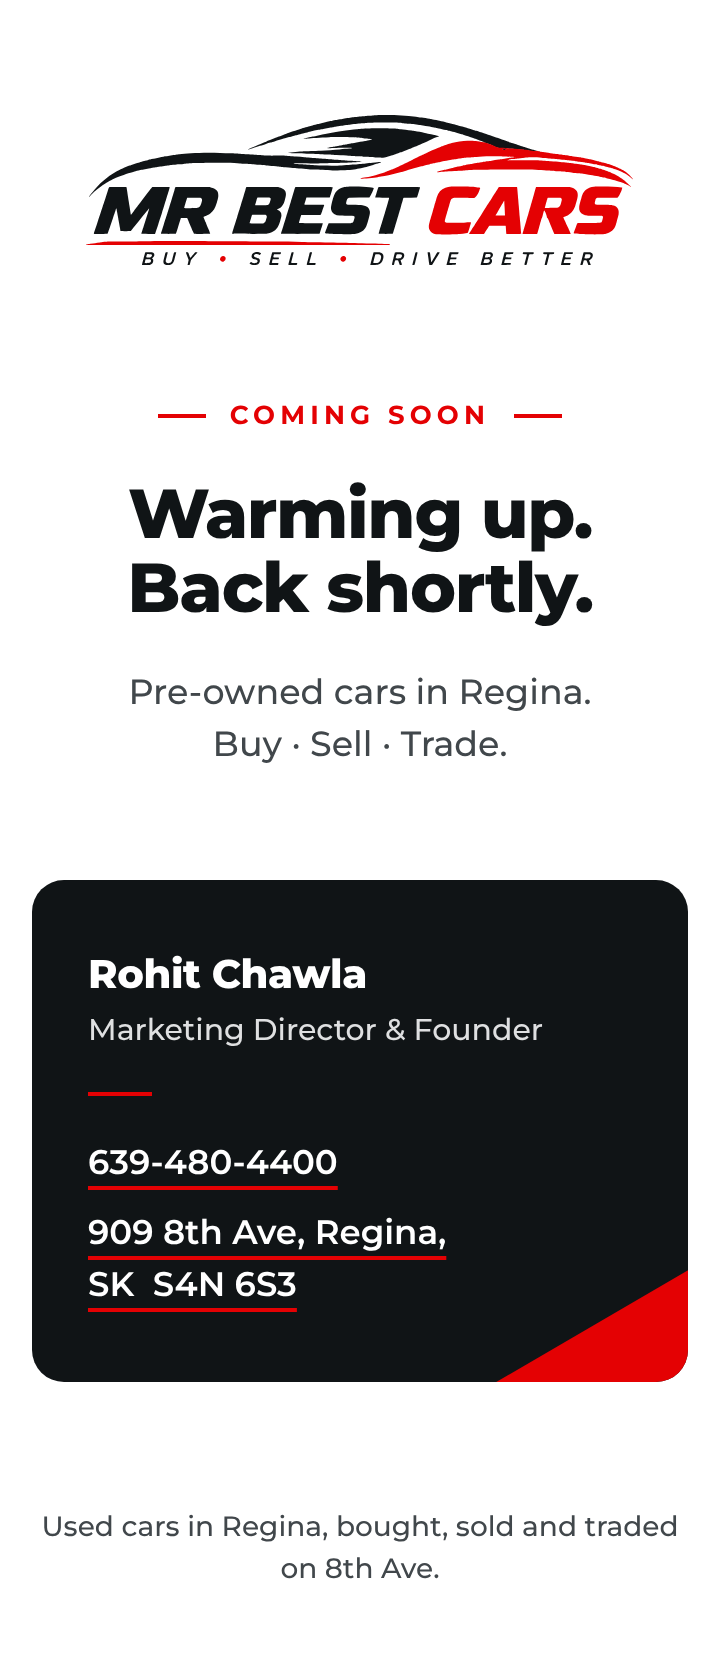
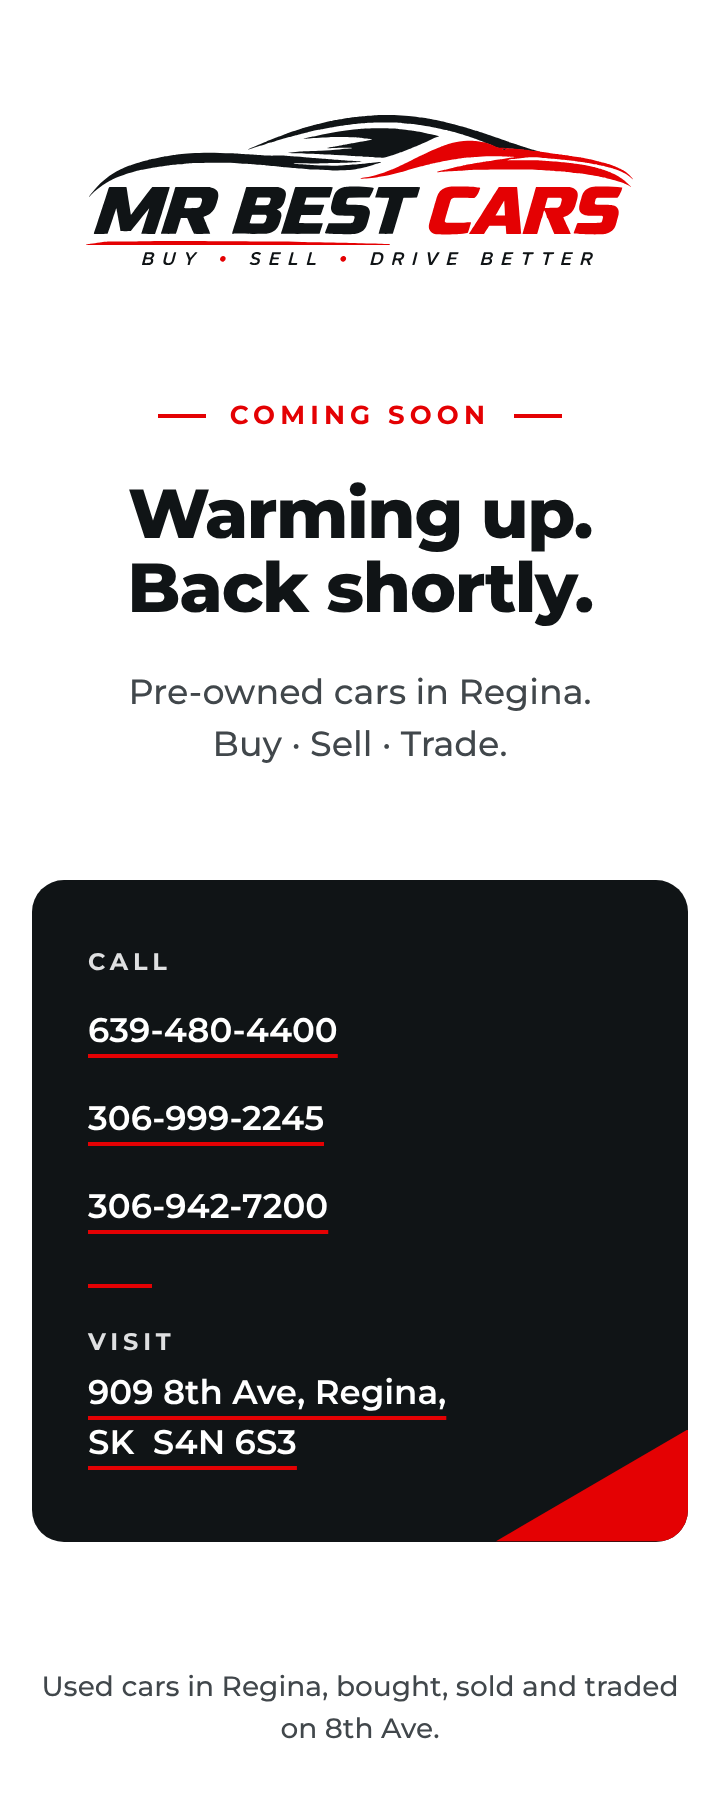
Contact: remove name/title, add 306-999-2245 and 306-942-7200
Claude-Session: https://claude.ai/code/session_0111nycAP5oJUybwEeT2RRwK

diff --git a/site/swym/index.html b/site/swym/index.html
@@ -42,9 +42,8 @@ h1{margin-top:20px;max-width:14ch;font-size:clamp(2.125rem,1.4rem + 3.4vw,3.75re
 .nw{white-space:nowrap}
 .card{position:relative;overflow:hidden;width:100%;max-width:460px;margin-top:clamp(40px,7vh,64px);padding:32px 28px 36px;border-radius:16px;background:var(--ink);color:var(--white);text-align:left;font-style:normal}
 .card::after{content:"";position:absolute;right:0;bottom:0;width:96px;height:56px;background:var(--red);clip-path:polygon(100% 0,100% 100%,0 100%)}
-.name{font-size:1.25rem;font-weight:800;letter-spacing:-.01em}
-.role{margin-top:2px;color:var(--grey);font-size:.9375rem}
-.card hr{width:32px;height:2px;margin:20px 0 12px;border:0;background:var(--red)}
+.kicker{margin-bottom:4px;color:var(--grey);font-size:.75rem;font-weight:700;letter-spacing:.2em;text-transform:uppercase}
+.card hr{width:32px;height:2px;margin:16px 0 18px;border:0;background:var(--red)}
 .links{list-style:none;padding:0;display:flex;flex-direction:column;align-items:flex-start}
 .links a{display:inline-flex;align-items:center;min-height:44px;color:var(--white);font-size:1.0625rem;font-weight:600;text-decoration:underline;text-decoration-color:var(--red);text-decoration-thickness:2px;text-underline-offset:6px}
 .links a:hover{text-decoration-color:var(--white)}
@@ -62,7 +61,7 @@ html.intro #car-wipe-rect,html.intro #underline-wipe-rect{transform:scaleX(0);an
 @media (prefers-reduced-motion:reduce){html.intro .veil{display:none}html.intro .letter,html.intro #tagline{opacity:1}html.intro #car-wipe-rect,html.intro #underline-wipe-rect{transform:none}}
 </style>
 <script type="application/ld+json">
-{"@context":"https://schema.org","@type":"AutoDealer","name":"Mr Best Cars","description":"Pre-owned cars in Regina. Buy · Sell · Trade.","url":"https://jayantarora.in/swym/","image":"https://jayantarora.in/swym/assets/og-image.png","telephone":"+1-639-480-4400","address":{"@type":"PostalAddress","streetAddress":"909 8th Ave","addressLocality":"Regina","addressRegion":"SK","postalCode":"S4N 6S3","addressCountry":"CA"},"founder":{"@type":"Person","name":"Rohit Chawla","jobTitle":"Marketing Director & Founder"}}
+{"@context":"https://schema.org","@type":"AutoDealer","name":"Mr Best Cars","description":"Pre-owned cars in Regina. Buy · Sell · Trade.","url":"https://jayantarora.in/swym/","image":"https://jayantarora.in/swym/assets/og-image.png","telephone":["+1-639-480-4400","+1-306-999-2245","+1-306-942-7200"],"address":{"@type":"PostalAddress","streetAddress":"909 8th Ave","addressLocality":"Regina","addressRegion":"SK","postalCode":"S4N 6S3","addressCountry":"CA"}}
 </script>
 </head>
 <body>
@@ -98,11 +97,15 @@ html.intro #car-wipe-rect,html.intro #underline-wipe-rect{transform:scaleX(0);an
   <h1>Warming up. Back shortly.</h1>
   <p class="lead"><span class="nw">Pre-owned cars in Regina.</span> <span class="nw">Buy · Sell · Trade.</span></p>
   <address class="card">
-    <p class="name">Rohit Chawla</p>
-    <p class="role">Marketing Director &amp; Founder</p>
-    <hr>
+    <p class="kicker">Call</p>
     <ul class="links">
       <li><a href="tel:+16394804400">639-480-4400</a></li>
+      <li><a href="tel:+13069992245">306-999-2245</a></li>
+      <li><a href="tel:+13069427200">306-942-7200</a></li>
+    </ul>
+    <hr>
+    <p class="kicker">Visit</p>
+    <ul class="links">
       <li><a href="https://www.google.com/maps/search/?api=1&amp;query=909%208th%20Ave%2C%20Regina%2C%20SK%20S4N%206S3">909 8th Ave, Regina, SK&nbsp;&nbsp;S4N&nbsp;6S3</a></li>
     </ul>
   </address>

diff --git a/deliverables/NOTES.md b/deliverables/NOTES.md
@@ -28,6 +28,7 @@ Nothing was redrawn. All artwork was extracted from the board:
 2. The logo's own tagline reads "Buy • Sell • Drive Better", and the page line keeps the brief's "Buy · Sell · Trade." Tell me if the page line should switch.
 3. The board's lifestyle mock-ups (shopfront, SUV wrap, business cards) are not used as photos. They are generated mock-ups of a building and vehicle that are not the dealership, and they are too low-resolution for the web.
 4. Address: 909 8th Ave, Regina, SK  S4N 6S3 (confirmed by the client). It is on the page, in the maps link and in the JSON-LD. The meta description keeps the brief's wording.
+4b. Contact: Rohit Chawla and his title were removed at the client's request. Phones are 639-480-4400, 306-999-2245 and 306-942-7200 (all tel: links, all in the JSON-LD `telephone` list). The card has small "Call" and "Visit" labels.
 5. "Kilometres" is not used, because nothing on the page refers to distance.
 6. Not verified: Lighthouse was not re-run for v2, since you asked for no local server and this environment cannot reach the live domain. Please run it on the live URL. v1 scored 100/100/100/100; v2 uses the same structure, but the inline logo is larger (page HTML about 66 KB, roughly 25 KB gzipped).
 7. Checked: no horizontal scroll at 360, 768 and 1440 px, all links 44 px tall or more, and no console errors. The page renders fully with JavaScript off.
